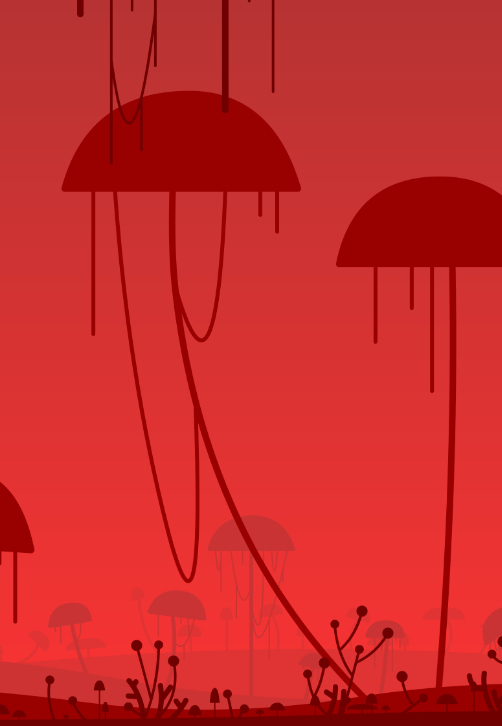
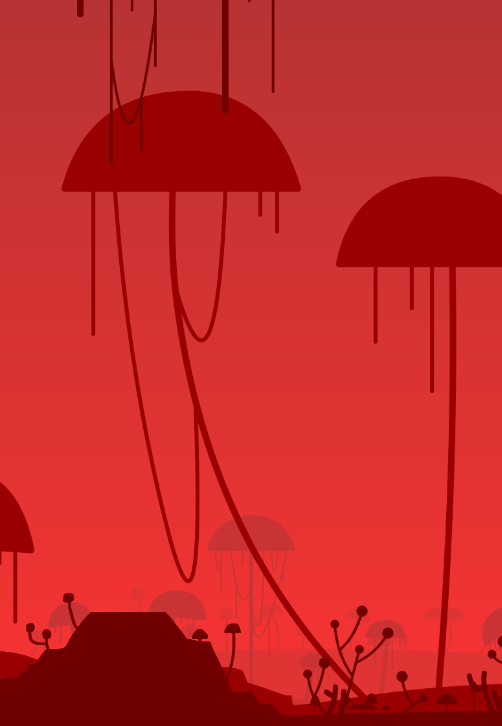
added bg changing after 3rd enemy

Changed region(s): [[0.0, 0.8182, 0.5976, 1.0]]

diff --git a/core/src/com/badlogic/drop/states/PlayState.java b/core/src/com/badlogic/drop/states/PlayState.java
@@ -63,7 +63,7 @@ public class PlayState extends State {
     private Music music;
 
     private int count = 0;
-
+    private int dftcount = 0;
     public PlayState(GameStateManager gsm, Hero xjose) {
         super(gsm);
 
@@ -96,7 +96,6 @@ public class PlayState extends State {
 
         //same we can add but based on shop upgrades
         joseDMG = jose.getCurrentDamage();
-        System.out.println(jose.getCurrentDamage());
 
         //display engkanto health
         font = new BitmapFont(Gdx.files.internal("barlow.fnt"),Gdx.files.internal("barlow.png"), false);
@@ -144,10 +143,10 @@ public class PlayState extends State {
 
             double tmp;
             tmp =  hp/totalhp*900.0;
-            System.out.println(tmp);
+            //System.out.println(tmp);
             total = (int) tmp;
-            System.out.println(total);
-            System.out.println("play pos:" + engkanto.getPosition().x);
+            //System.out.println(total);
+            //System.out.println("play pos:" + engkanto.getPosition().x);
 
             if(backBounds.contains(tmpPlay.x, tmpPlay.y)){
                 System.out.println("BACK BUTTON CLICKED");
@@ -165,22 +164,23 @@ public class PlayState extends State {
         //this area runs and continuously monitors the state in deltaTime
         //this is the winning statement
         if (timer.currentTime > 0 && engkantoHP <= 0){
-            System.out.println(engkantoHP);
-            System.out.println("Chunkyboi is dead :( Resetting time now...");
+            //System.out.println(engkantoHP);
+            //System.out.println("Chunkyboi is dead :( Resetting time now...");
             engkanto.changeSkin();
             timer.resetTime();
 
             count++;
-            if (count < 2){
+            System.out.println("COUNT "+count);
+            System.out.println("DFTCOUNT "+dftcount);
+            if (count== 3){
                 background.dispose();
-                background = new Texture(TapCore.bgOptions[count]);
+                dftcount++;
+                if(dftcount>=3) {
+                    dftcount = 0;
+                }
+                count=0;
+                background = new Texture(TapCore.bgOptions[dftcount]);
             }
-            else {
-                background.dispose();
-                count = 0;
-                background = new Texture(TapCore.bgOptions[count]);
-            }
-
         }
 
         if (timer.currentTime < 0 && engkantoHP > 0){
@@ -255,8 +255,6 @@ public class PlayState extends State {
 
         //System.out.println("tmp: "+tmp+"total: "+total);
         sblank.begin();
-
-        System.out.println(total);
         if (total <= 900 && total > 500)
             sblank.setColor(Color.GREEN);
         else if (total <= 500 && total > 300)

diff --git a/core/src/com/badlogic/drop/TapCore.java b/core/src/com/badlogic/drop/TapCore.java
@@ -35,7 +35,7 @@ public class TapCore extends ApplicationAdapter {
 	private SpriteBatch batch; //these are heavy files so just pass it around each game state
 
 	public static String[] pathOptions = {"manananggal1.png", "aswang1.png","tikbalang1.png","shokoy1.png","duwende1.png"};
-	public static String[] bgOptions = {"bg.png", "bg2.png"};
+	public static String[] bgOptions = {"bg.png", "bg2.png","bg3.png"};
 
 	//create is where we load the assets that we need but that's it. It just loads
 	@Override
